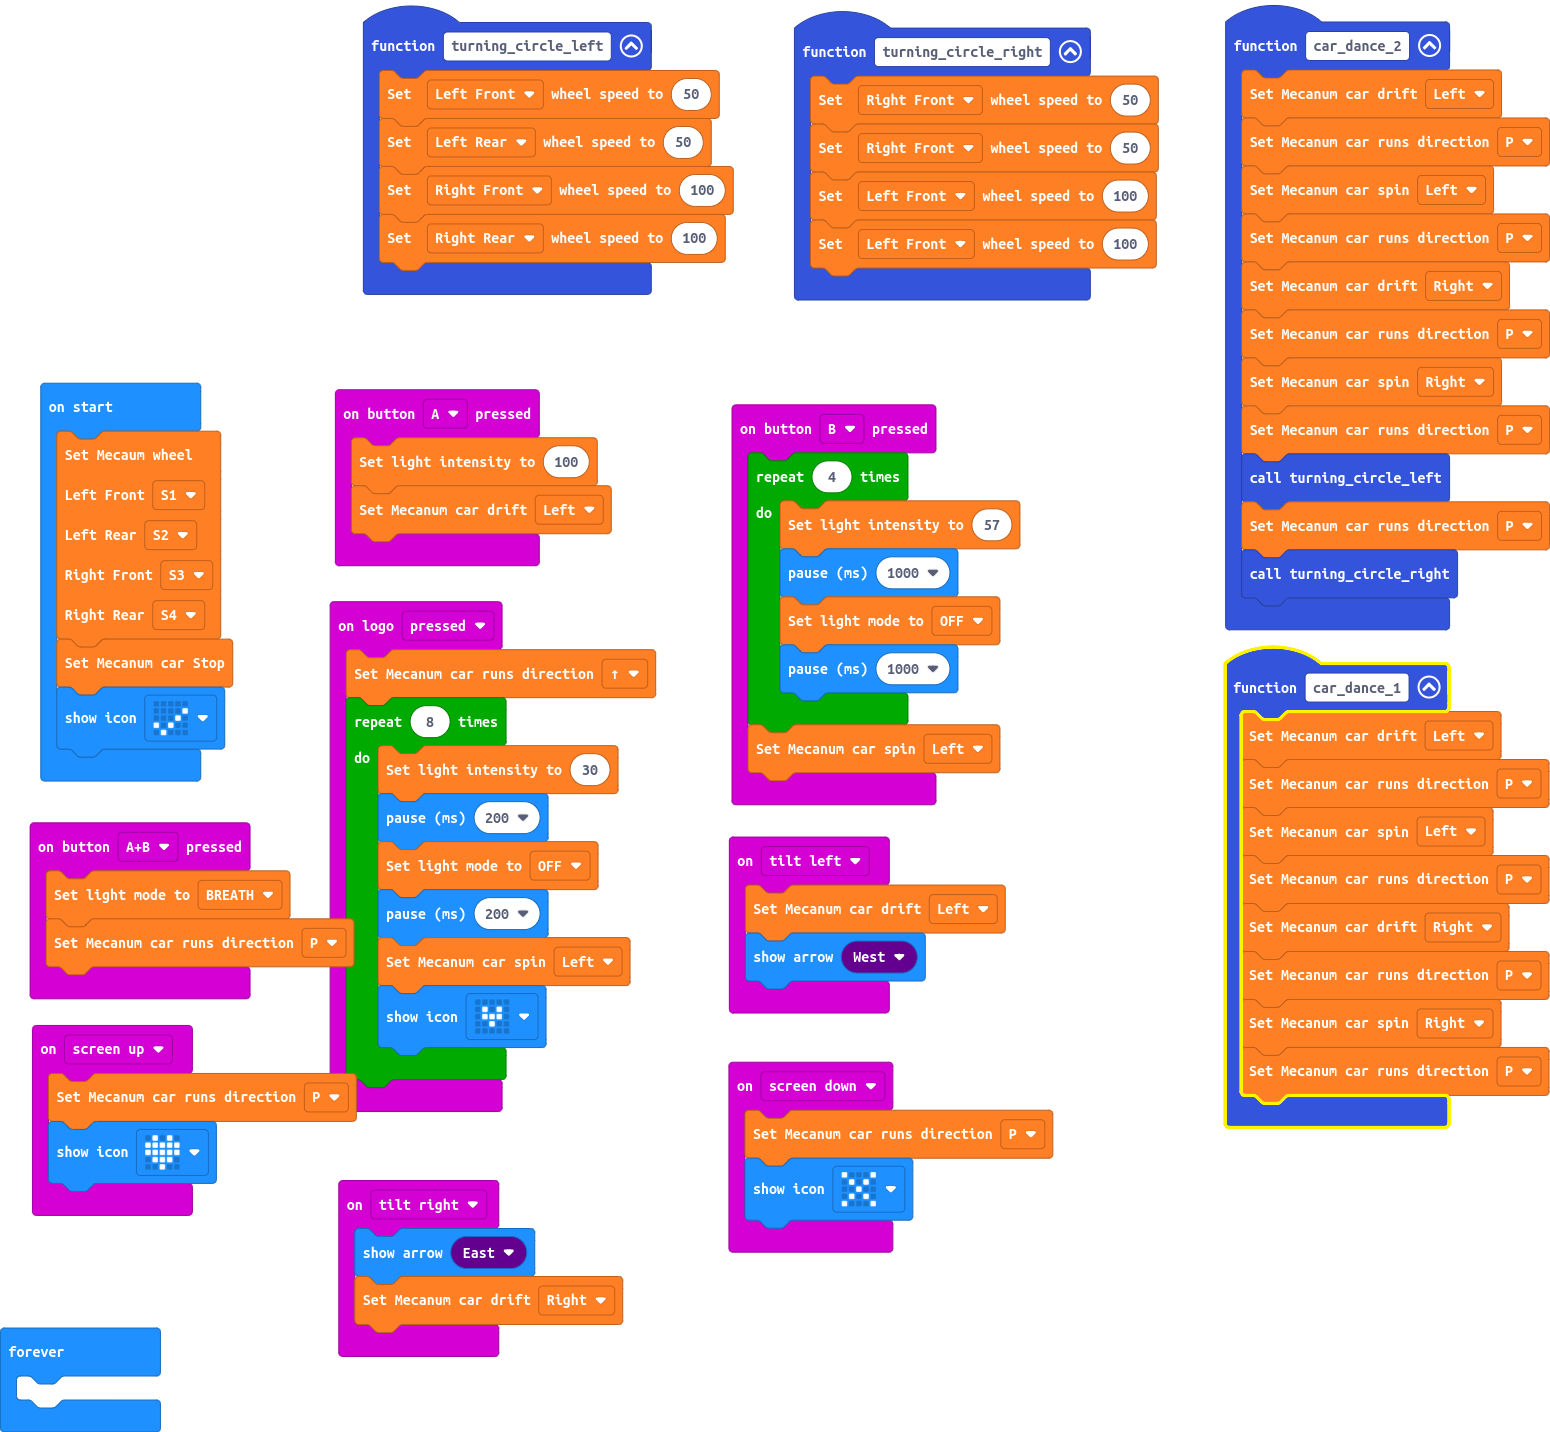
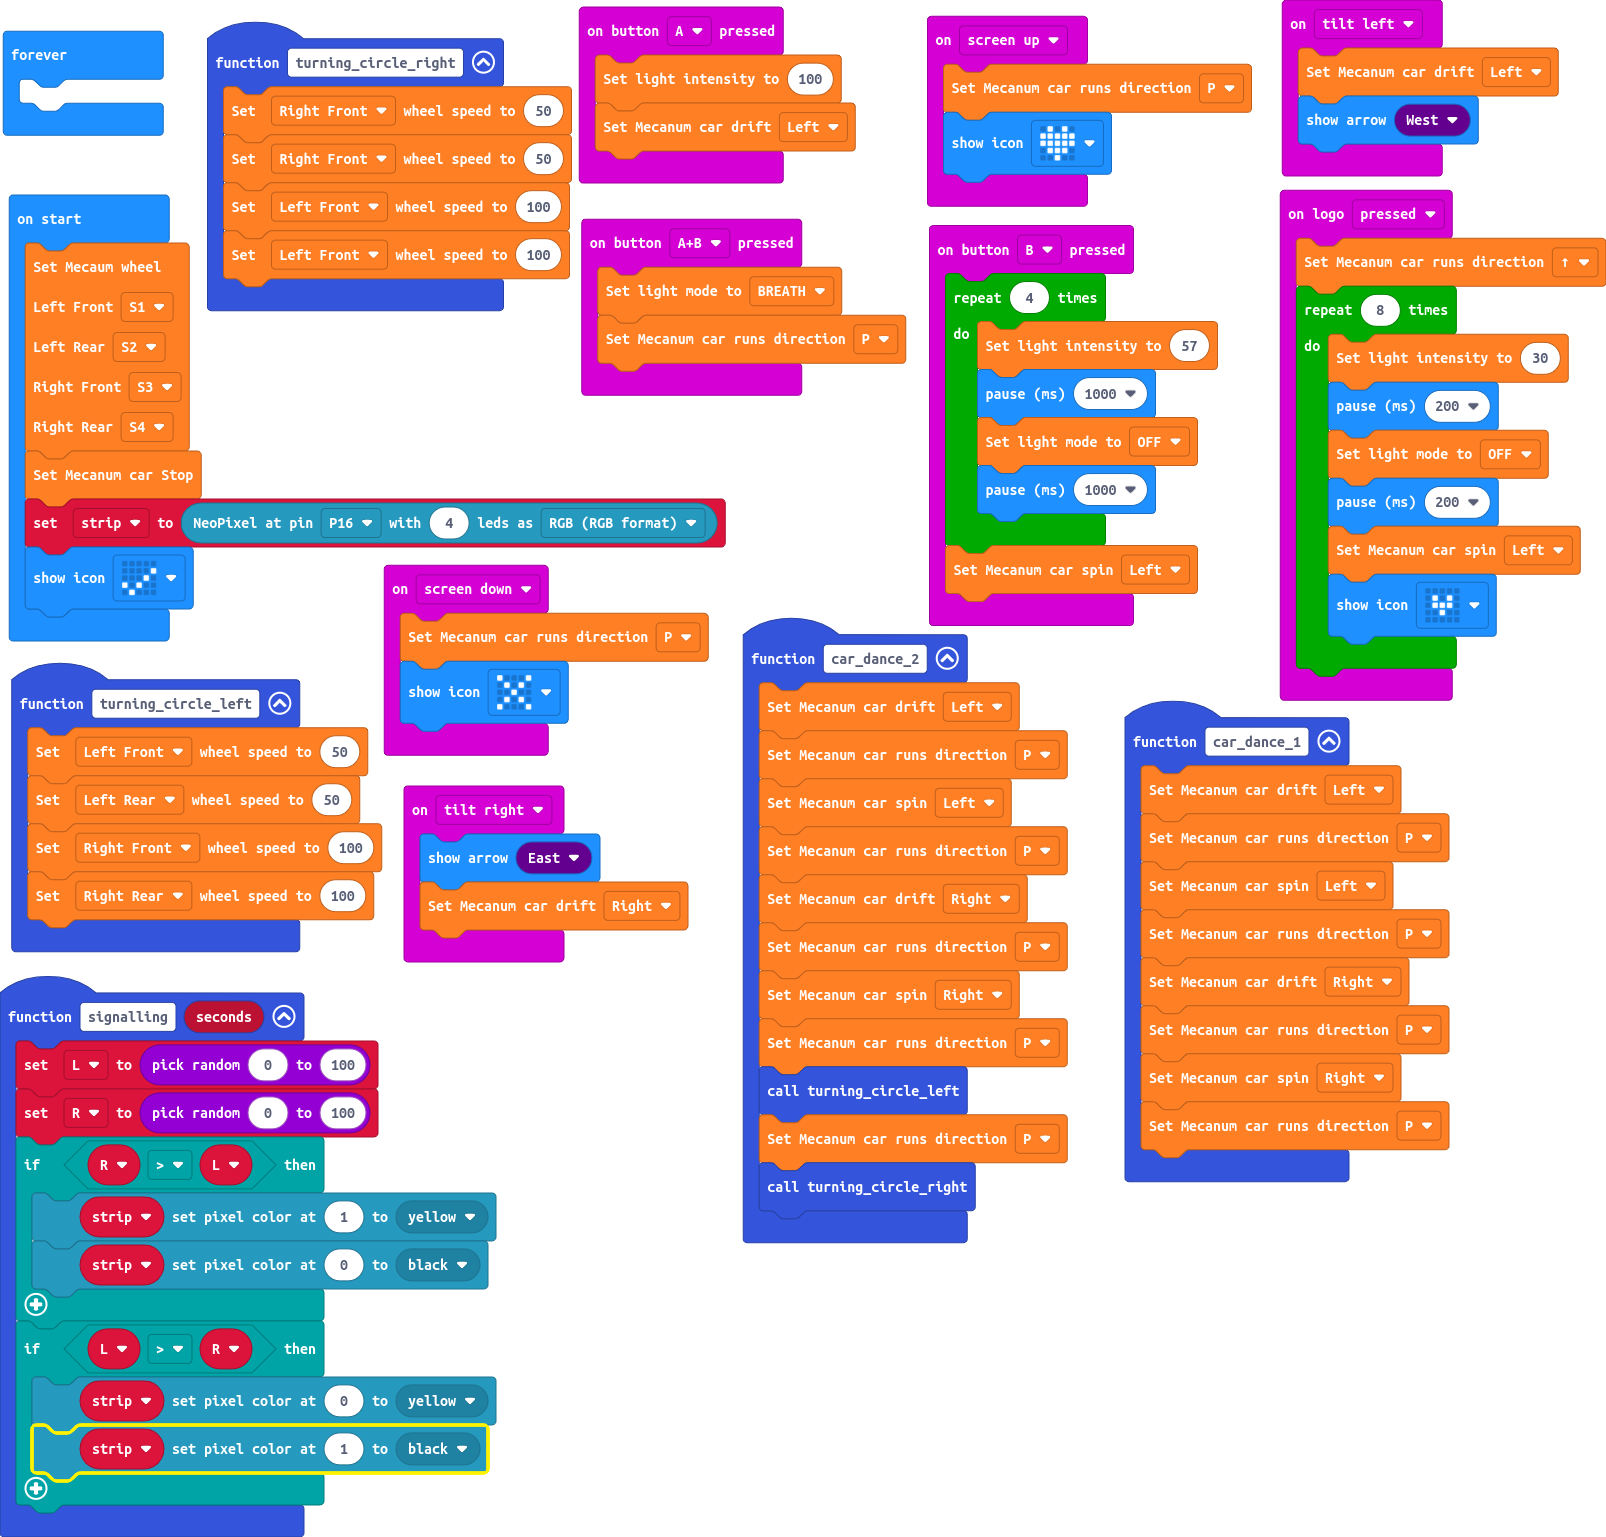
Update main.blocks, main.ts

diff --git a/main.ts b/main.ts
@@ -30,6 +30,18 @@ input.onButtonPressed(Button.AB, function () {
     wuKong.setLightMode(wuKong.LightMode.BREATH)
     wuKong.mecanumRun(wuKong.RunList.stop)
 })
+function signalling (seconds: number) {
+    L = randint(0, 100)
+    R = randint(0, 100)
+    if (R > L) {
+        strip.setPixelColor(1, neopixel.colors(NeoPixelColors.Yellow))
+        strip.setPixelColor(0, neopixel.colors(NeoPixelColors.Black))
+    }
+    if (L > R) {
+        strip.setPixelColor(0, neopixel.colors(NeoPixelColors.Yellow))
+        strip.setPixelColor(1, neopixel.colors(NeoPixelColors.Black))
+    }
+}
 input.onButtonPressed(Button.B, function () {
     for (let index = 0; index < 4; index++) {
         wuKong.lightIntensity(57)
@@ -77,6 +89,9 @@ function car_dance_1 () {
     wuKong.mecanumSpin(wuKong.TurnList.Right)
     wuKong.mecanumRun(wuKong.RunList.stop)
 }
+let R = 0
+let L = 0
+let strip: neopixel.Strip = null
 wuKong.mecanumWheel(
 wuKong.ServoList.S1,
 wuKong.ServoList.S2,
@@ -84,6 +99,7 @@ wuKong.ServoList.S3,
 wuKong.ServoList.S4
 )
 wuKong.mecanumStop()
+strip = neopixel.create(DigitalPin.P16, 4, NeoPixelMode.RGB_RGB)
 basic.showIcon(IconNames.Yes)
 basic.forever(function () {
 	
